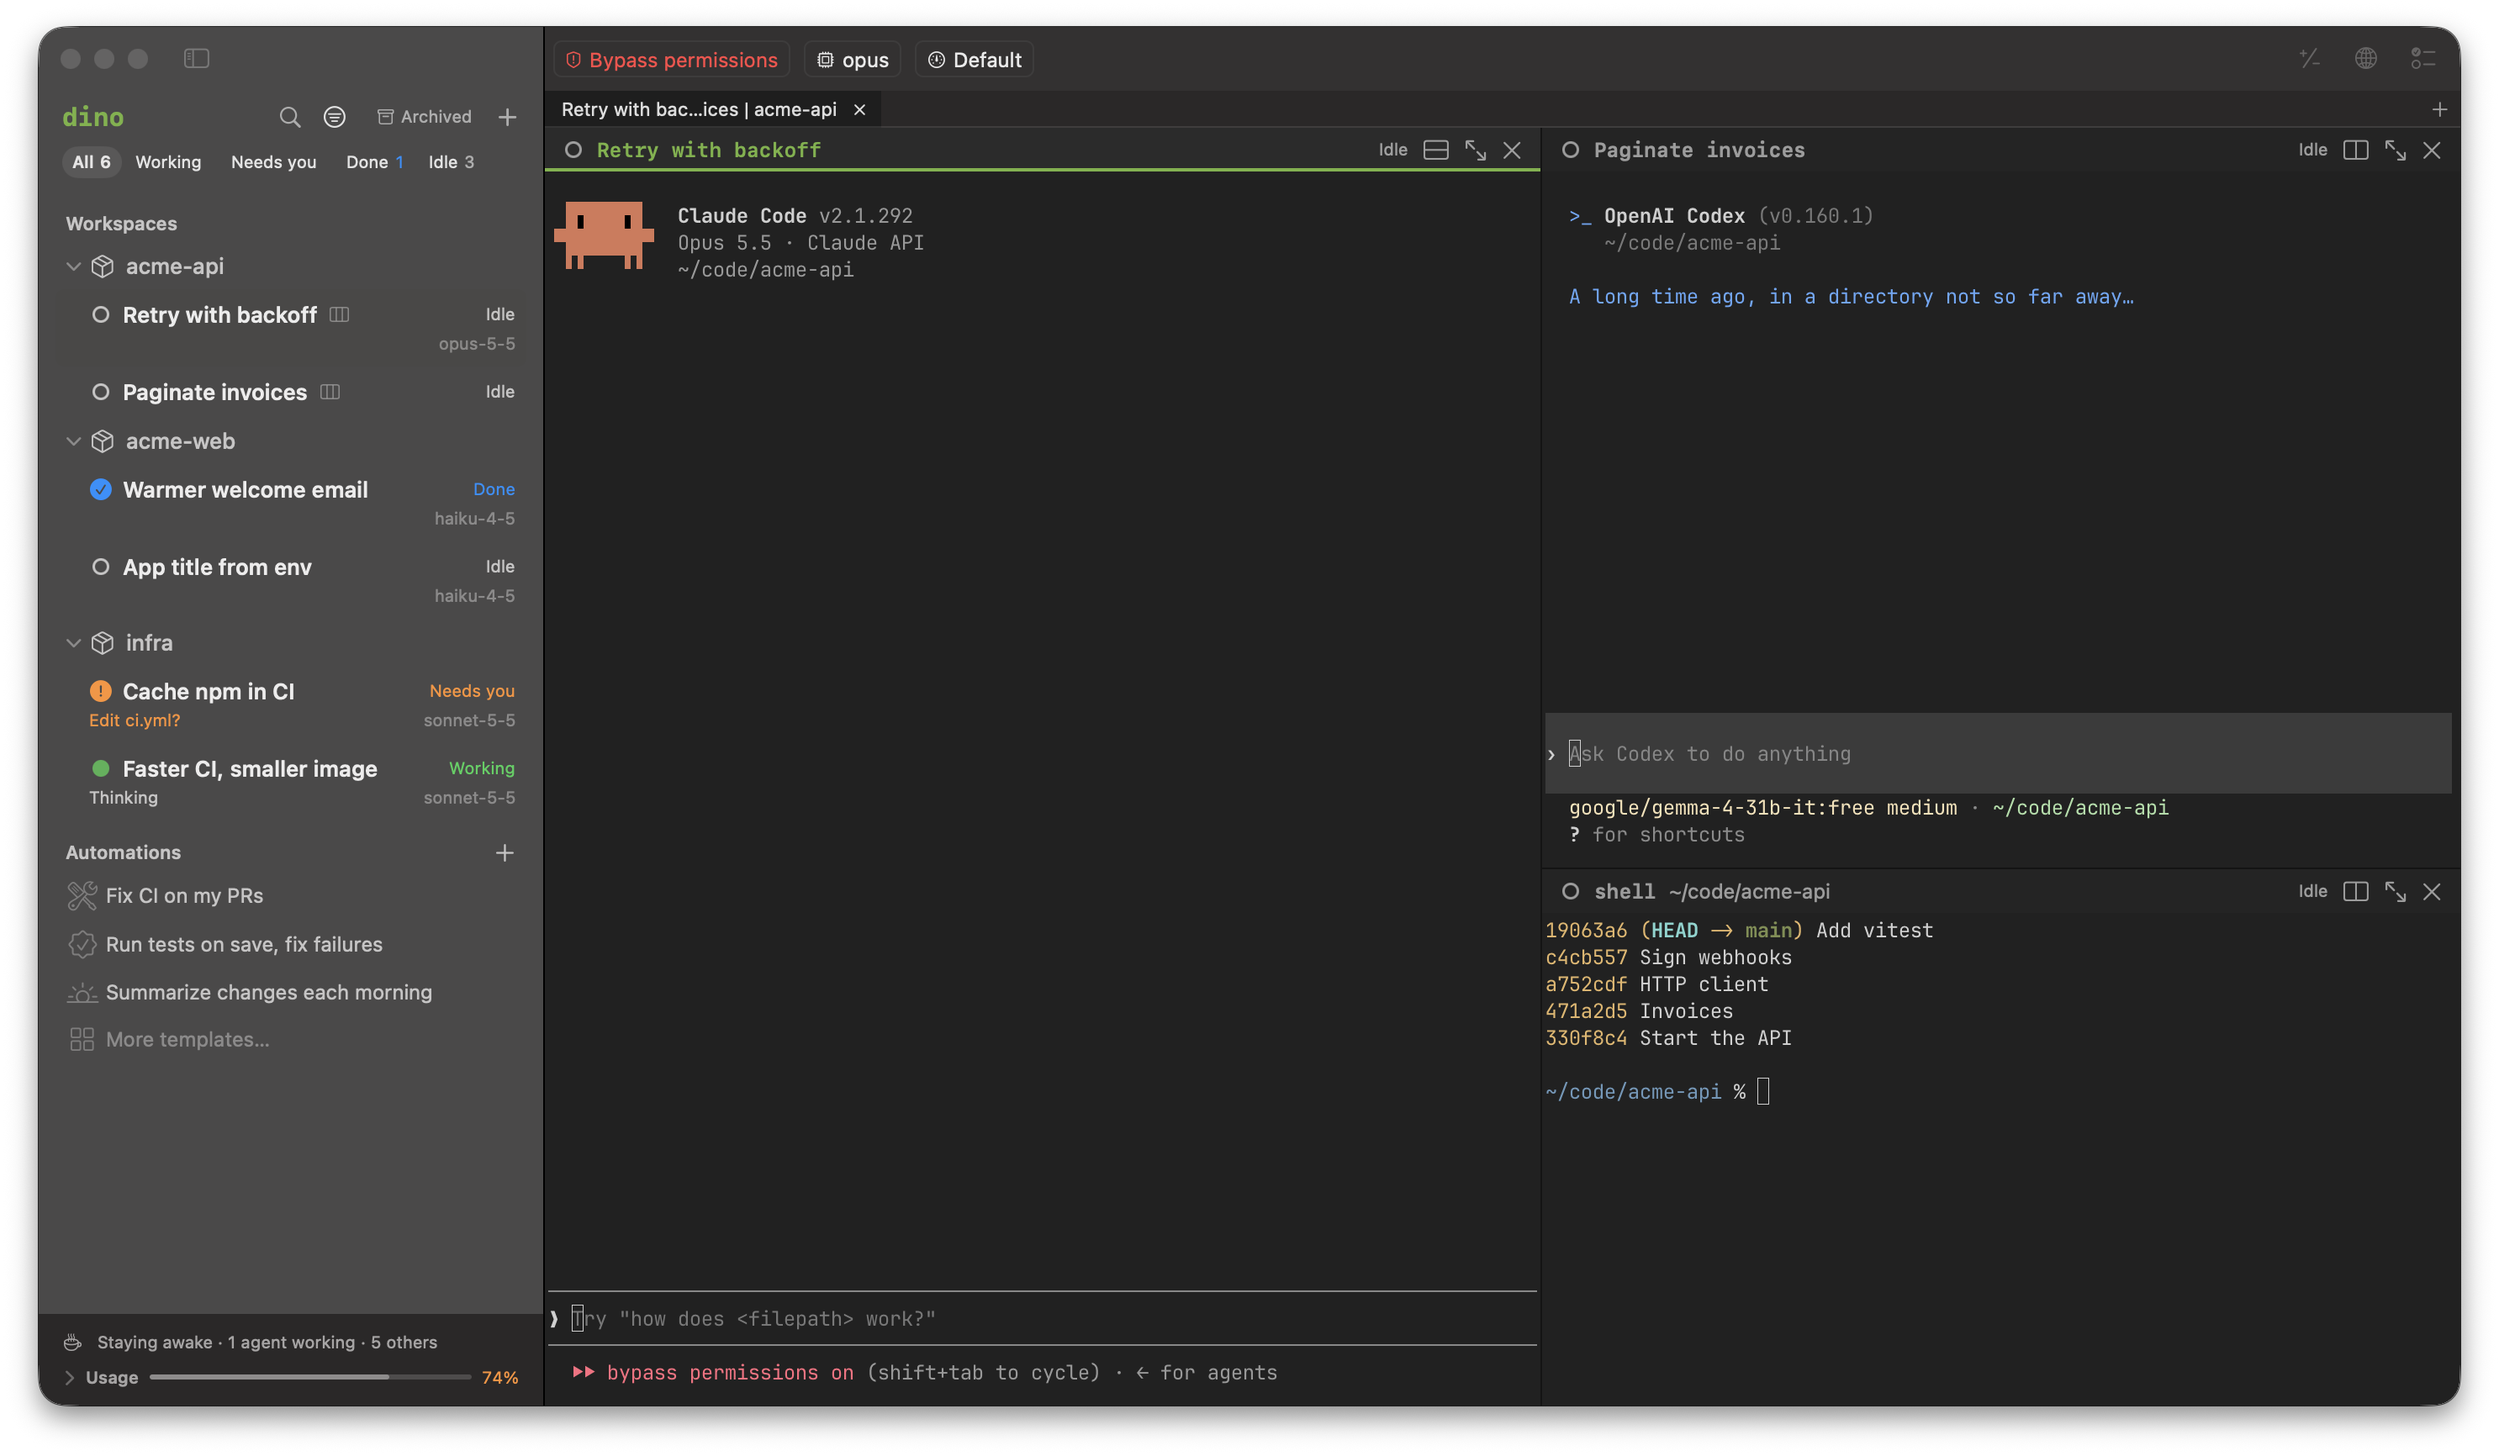
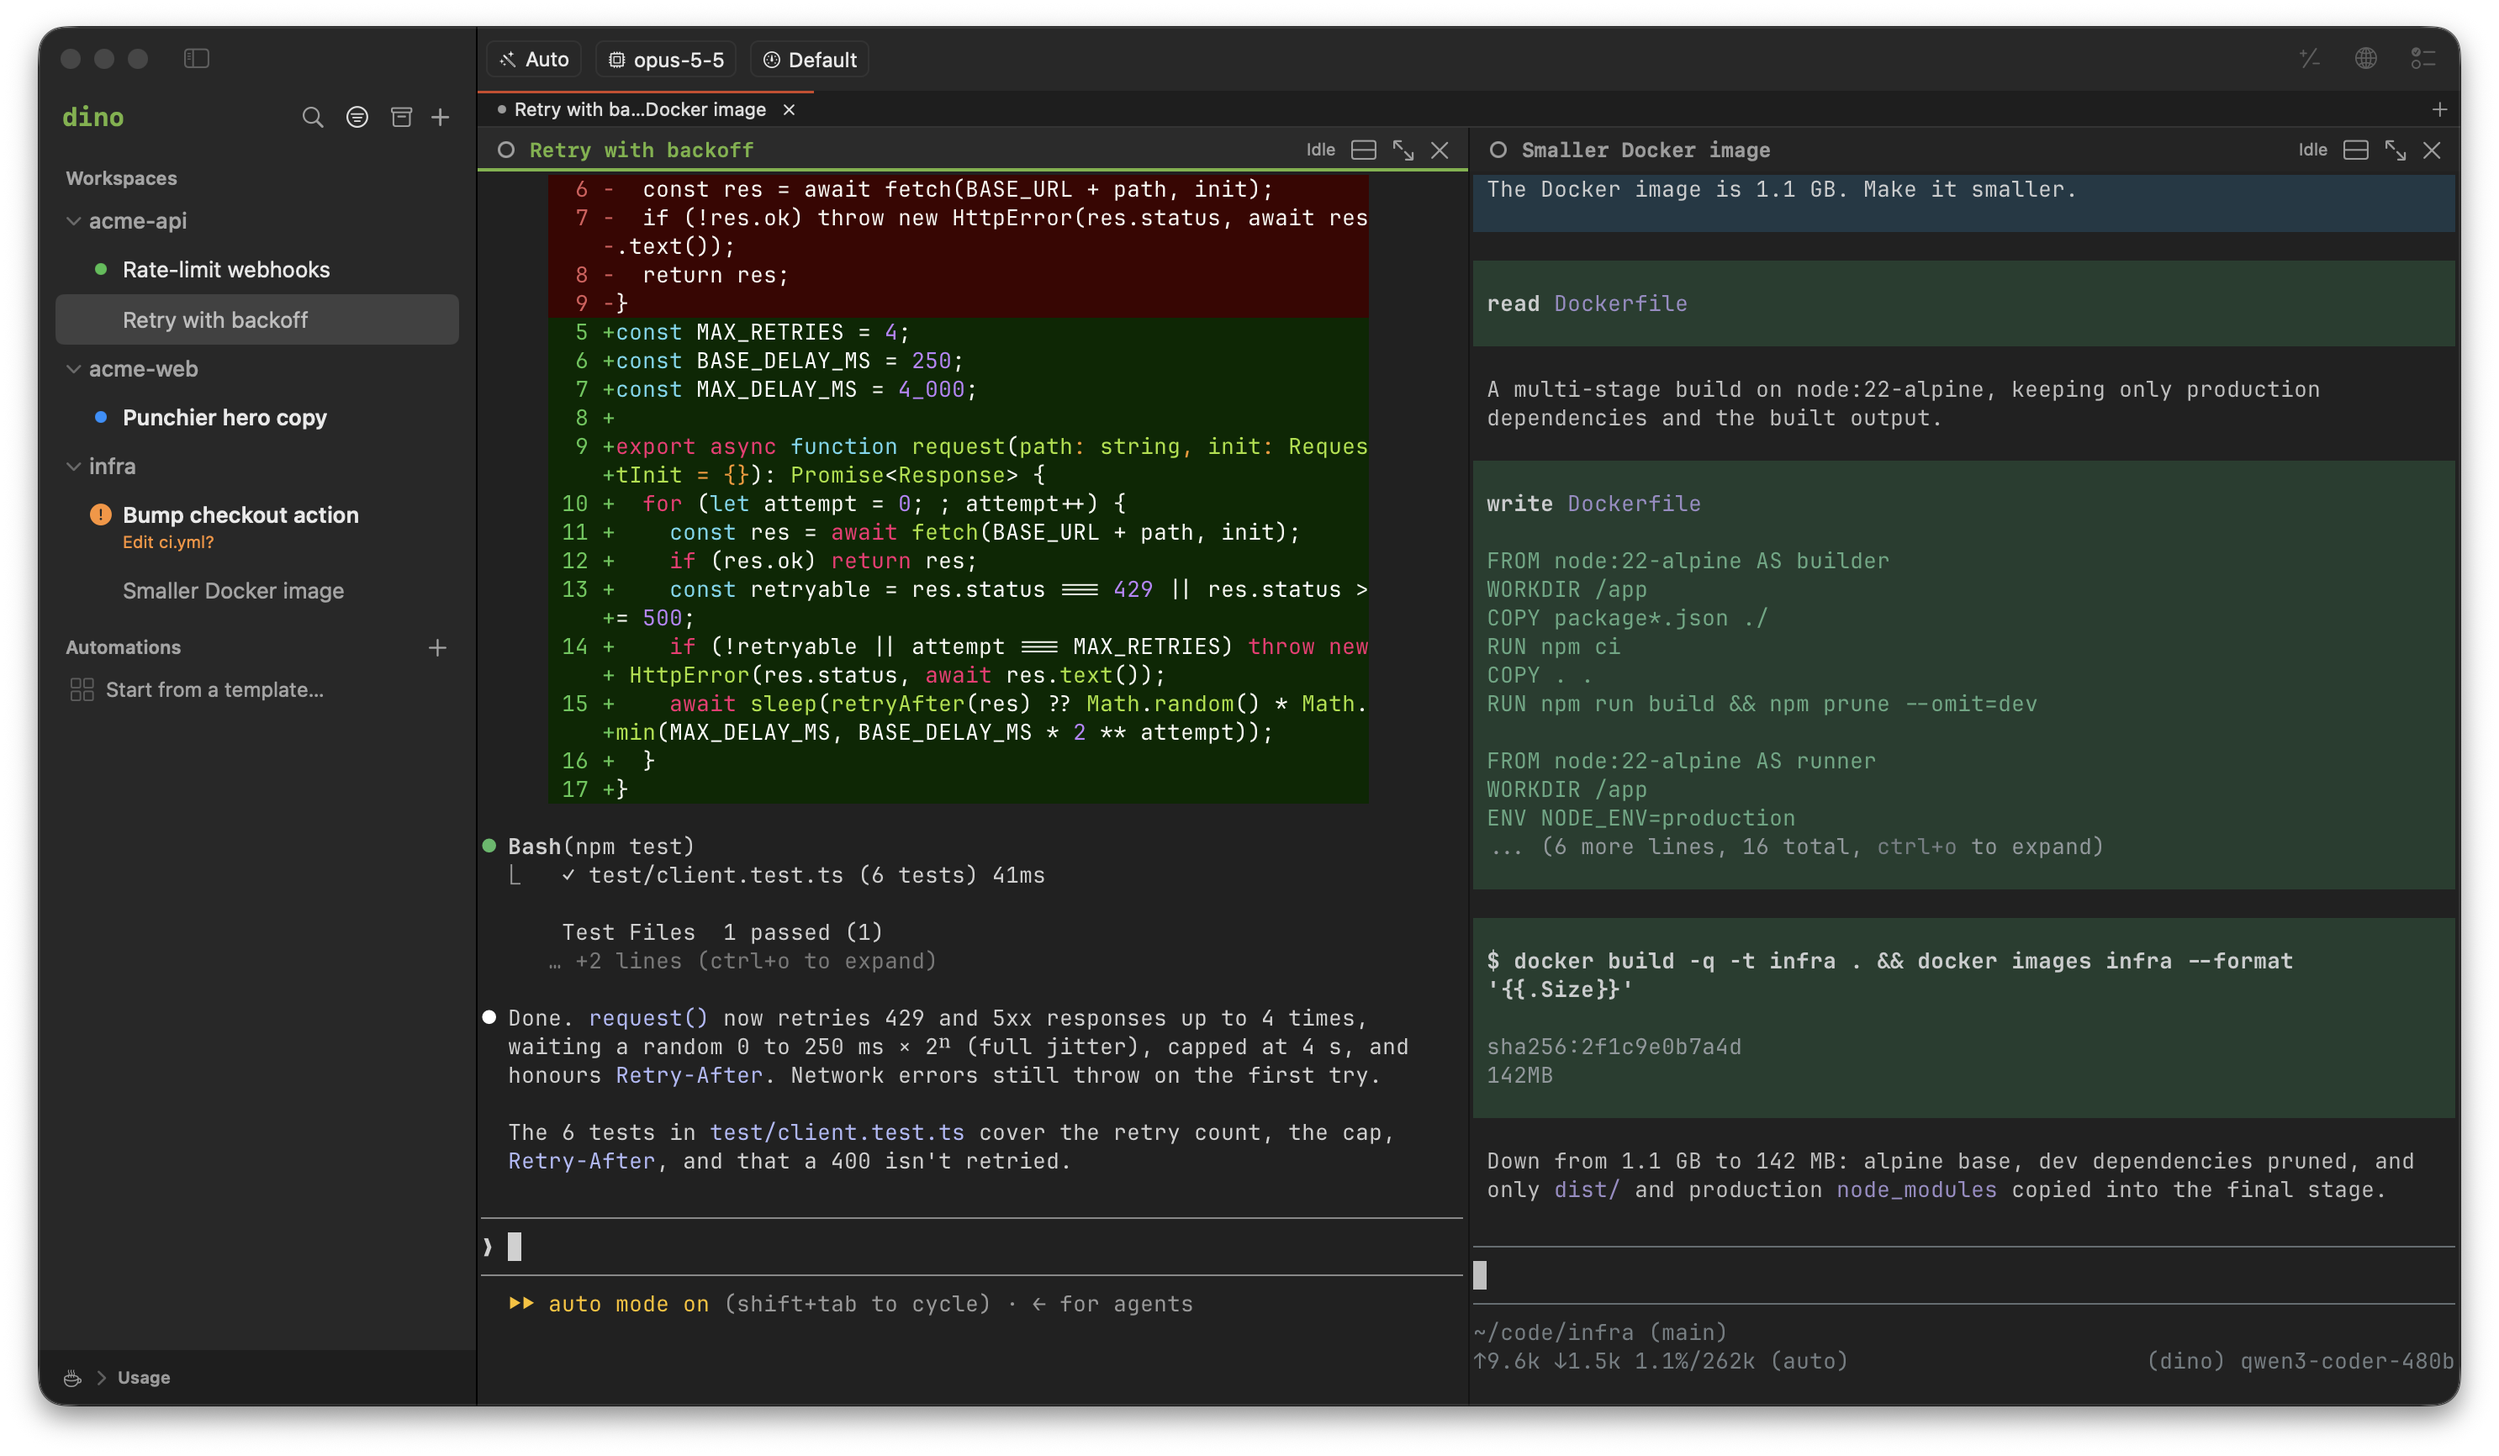
Questions go to Discussions through SUPPORT.md and the new-issue page, and the README shows the new sidebar

diff --git a/README.md b/README.md
@@ -21,7 +21,7 @@
 <p align="center">
   <picture>
     <source media="(prefers-color-scheme: dark)" srcset="docs/images/screenshot-dark.png">
-    <img src="docs/images/screenshot-light.png" width="900" alt="The dino window split into three panes: on the left, Claude Code on Opus 5.5 in Bypass permissions mode, ready at its prompt; on the right, Codex ready at its prompt above a shell showing git log. The sidebar groups sessions by project, each marked Working, Needs you, Done or Idle.">
+    <img src="docs/images/screenshot-light.png" width="900" alt="The dino window split into two panes: on the left, Claude Code on Opus 5.5 has finished adding retries with backoff, its diff and passing tests above the prompt; on the right, Pi has shrunk a Docker image with a multi-stage Dockerfile. The sidebar groups sessions by project: one working, one done, and one that needs you, asking to edit ci.yml.">
   </picture>
 </p>
 
@@ -226,8 +226,9 @@ checks a pull request runs, and the performance budget.
 
 Issues and pull requests are welcome; [good first issues](https://github.com/meetdino/dino/labels/good%20first%20issue)
 are a place to start. [CONTRIBUTING.md](CONTRIBUTING.md) covers setup, testing, and signing off
-your commits (DCO). Everyone taking part follows the [Code of Conduct](CODE_OF_CONDUCT.md). Please
-report security issues privately, as [SECURITY.md](SECURITY.md) describes.
+your commits (DCO). Questions go to [Discussions](https://github.com/meetdino/dino/discussions)
+([SUPPORT.md](SUPPORT.md)). Everyone taking part follows the [Code of Conduct](CODE_OF_CONDUCT.md).
+Please report security issues privately, as [SECURITY.md](SECURITY.md) describes.
 
 ## License
 

diff --git a/SUPPORT.md b/SUPPORT.md
@@ -1,0 +1,14 @@
+# Getting help
+
+- **A question, or stuck on something:** ask in
+  [Discussions → Q&A](https://github.com/meetdino/dino/discussions/categories/q-a). Search first;
+  someone may have asked already.
+- **A bug:** in dino, **Help → Report a Bug…** opens the
+  [bug form](https://github.com/meetdino/dino/issues/new?template=bug.yml) with your dino, macOS and
+  agent versions filled in. `~/.config/dino/dinod.log` often says why.
+- **An idea:** the [idea form](https://github.com/meetdino/dino/issues/new?template=feature.yml),
+  or [Discussions → Ideas](https://github.com/meetdino/dino/discussions/categories/ideas) to talk
+  it through first.
+- **Something you made with dino:**
+  [Discussions → Show and tell](https://github.com/meetdino/dino/discussions/categories/show-and-tell).
+- **A security issue:** privately, never in an issue or discussion. See [SECURITY.md](SECURITY.md).

diff --git a/CONTRIBUTING.md b/CONTRIBUTING.md
@@ -209,7 +209,9 @@ check on every pull request looks for it. Forgot? `git commit --amend -s` for th
 ## Reporting bugs and ideas
 
 Open an issue with what you did, what you expected and what happened, plus your macOS version, the
-dino version (`dino --version`) and the agent involved. `~/.config/dino/dinod.log` often says why.
-For security issues, don't open an issue: see [SECURITY.md](SECURITY.md).
+dino version (`dino --version`) and the agent involved; Help → Report a Bug… fills in the versions.
+`~/.config/dino/dinod.log` often says why. Questions go to
+[Discussions](https://github.com/meetdino/dino/discussions), as [SUPPORT.md](SUPPORT.md) says. For
+security issues, don't open an issue: see [SECURITY.md](SECURITY.md).
 
 Everyone taking part follows the [Code of Conduct](CODE_OF_CONDUCT.md).
